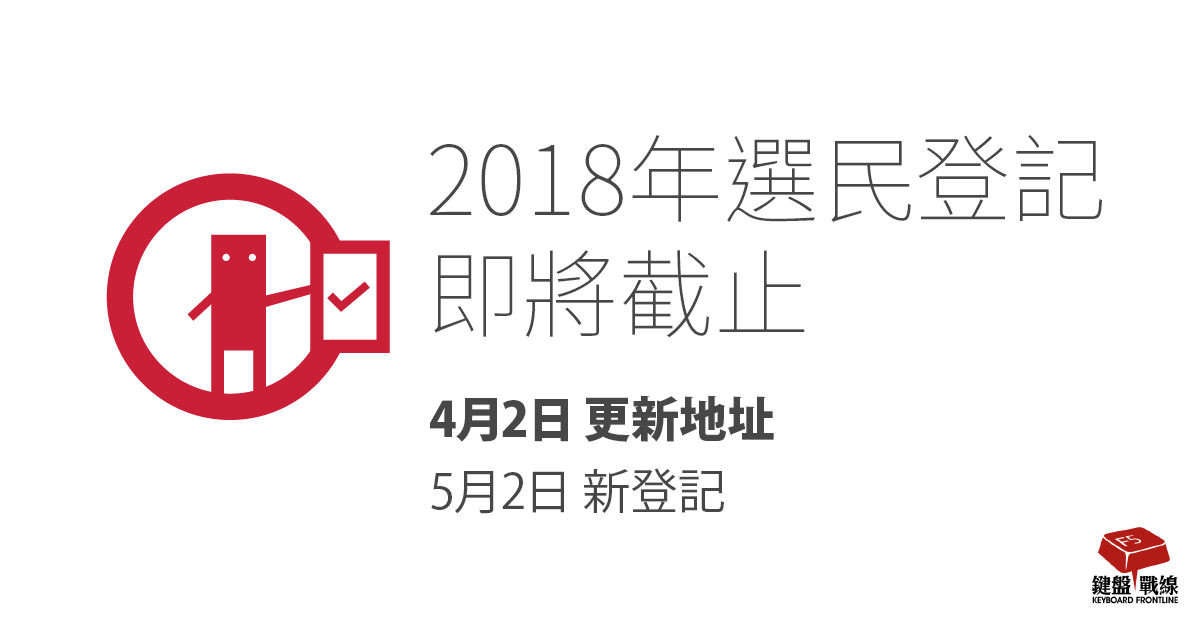
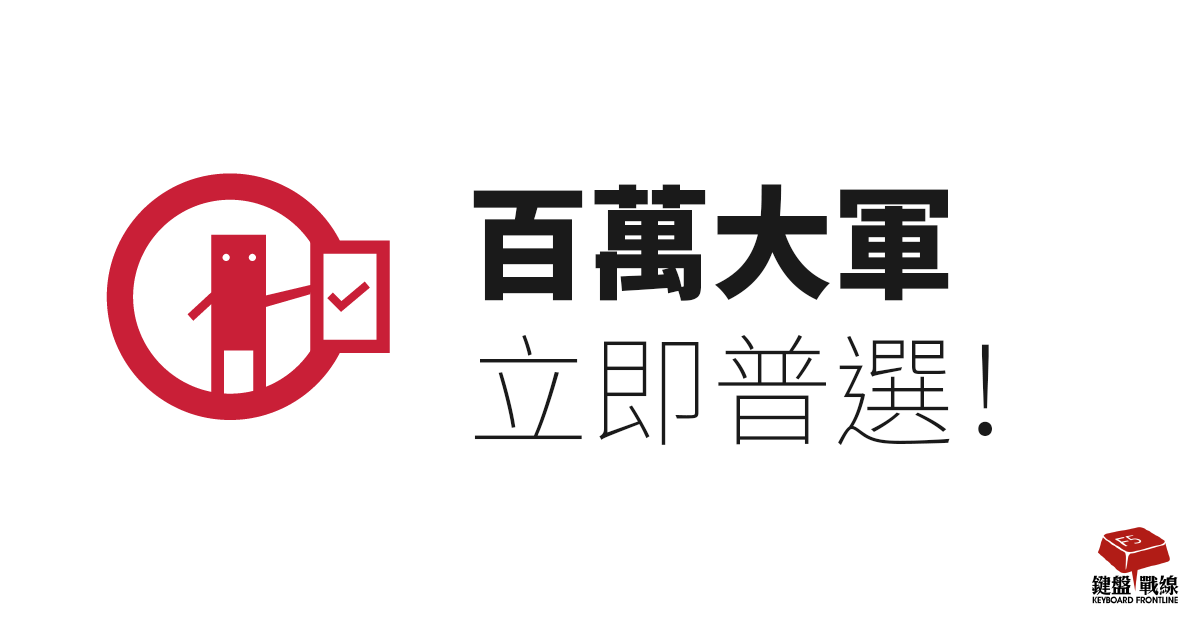
update preview image

Changed region(s): [[0.3389, 0.2108, 0.9242, 0.813]]

diff --git a/index.html b/index.html
@@ -5,10 +5,10 @@
   <script async custom-element="amp-analytics"
       src="https://cdn.ampproject.org/v0/amp-analytics-0.1.js"></script>
   <script async src="https://cdn.ampproject.org/v0.js"></script>
-  <title>2019 選民登記行動 — kbfl</title>
-  <link rel="canonical" href="https://kbfl-campaign.github.io/?20190617" />
+  <title>2018 選民登記行動 — kbfl</title>
+  <link rel="canonical" href="https://kbfl-campaign.github.io/?20180329" />
   <meta name="viewport" content="width=device-width,minimum-scale=1,initial-scale=1">
-  <meta name="description" content="2019 年香港選民登記。只要你是香港永久性居民、通常在香港居住及已年滿 18 歲，參與選舉就是你的基本權利。我是方丈選民登記行動。 Hong Kong voter registration.">
+  <meta name="description" content="2018 年香港選民登記。只要你是香港永久性居民、通常在香港居住及已年滿 18 歲，參與選舉就是你的基本權利。我是方丈選民登記行動。 Hong Kong voter registration.">
   <style amp-boilerplate>body{-webkit-animation:-amp-start 8s steps(1,end) 0s 1 normal both;-moz-animation:-amp-start 8s steps(1,end) 0s 1 normal both;-ms-animation:-amp-start 8s steps(1,end) 0s 1 normal both;animation:-amp-start 8s steps(1,end) 0s 1 normal both}@-webkit-keyframes -amp-start{from{visibility:hidden}to{visibility:visible}}@-moz-keyframes -amp-start{from{visibility:hidden}to{visibility:visible}}@-ms-keyframes -amp-start{from{visibility:hidden}to{visibility:visible}}@-o-keyframes -amp-start{from{visibility:hidden}to{visibility:visible}}@keyframes -amp-start{from{visibility:hidden}to{visibility:visible}}</style><noscript><style amp-boilerplate>body{-webkit-animation:none;-moz-animation:none;-ms-animation:none;animation:none}</style></noscript>
   <style amp-custom>
     /* general */
@@ -33,12 +33,11 @@
       --brand-yellow-color: #E3B130;
       --brand-blue-color: #4D8FAC;
       --brand-grey-color: #444;
-      --brand-white-color: #f3f3f3;
     }
     body {
       font-family: 'Noto Sans TC';
-      background-color: var(--brand-grey-color);
-      color: var(--brand-white-color);
+      background-color: #eeeee8;
+      color: var(--brand-grey-color);
       background-image:url(/assets/paper.png);
     }
     .sr-only {
@@ -52,7 +51,7 @@
       border: 0;
     }
     a {
-      color: var(--brand-white-color);
+      color: var(--brand-grey-color);
     }
     a.btn {
       display: inline-block;
@@ -213,7 +212,7 @@
         height="64">
       </amp-img>
       <img class="preview sr-only" src="assets/preview.png" width="1201" height="631">
-      <span class="sr-only">2019 選民登記行動</span>
+      <span class="sr-only">2018 選民登記行動</span>
     </h1>
     <ul>
       <li><a href="#eligibility">選民資格</a></li>
@@ -225,8 +224,8 @@
   </nav><!-- #site-nav -->
   <header class="hero" id="hero">
     <h1>
-      <strong>百萬大軍</strong><br>
-      立即普選！
+      <strong>過百萬合資格選民</strong><br>
+      錯過咗 2016 年立法會大選。
     </h1>
     <p>仲未登記？ 即刻用填表機：</p>
     <p><a class="btn btn-large btn-brand" id="register" href="app.html">簡易登記，只需 3 分鐘</a></p>
